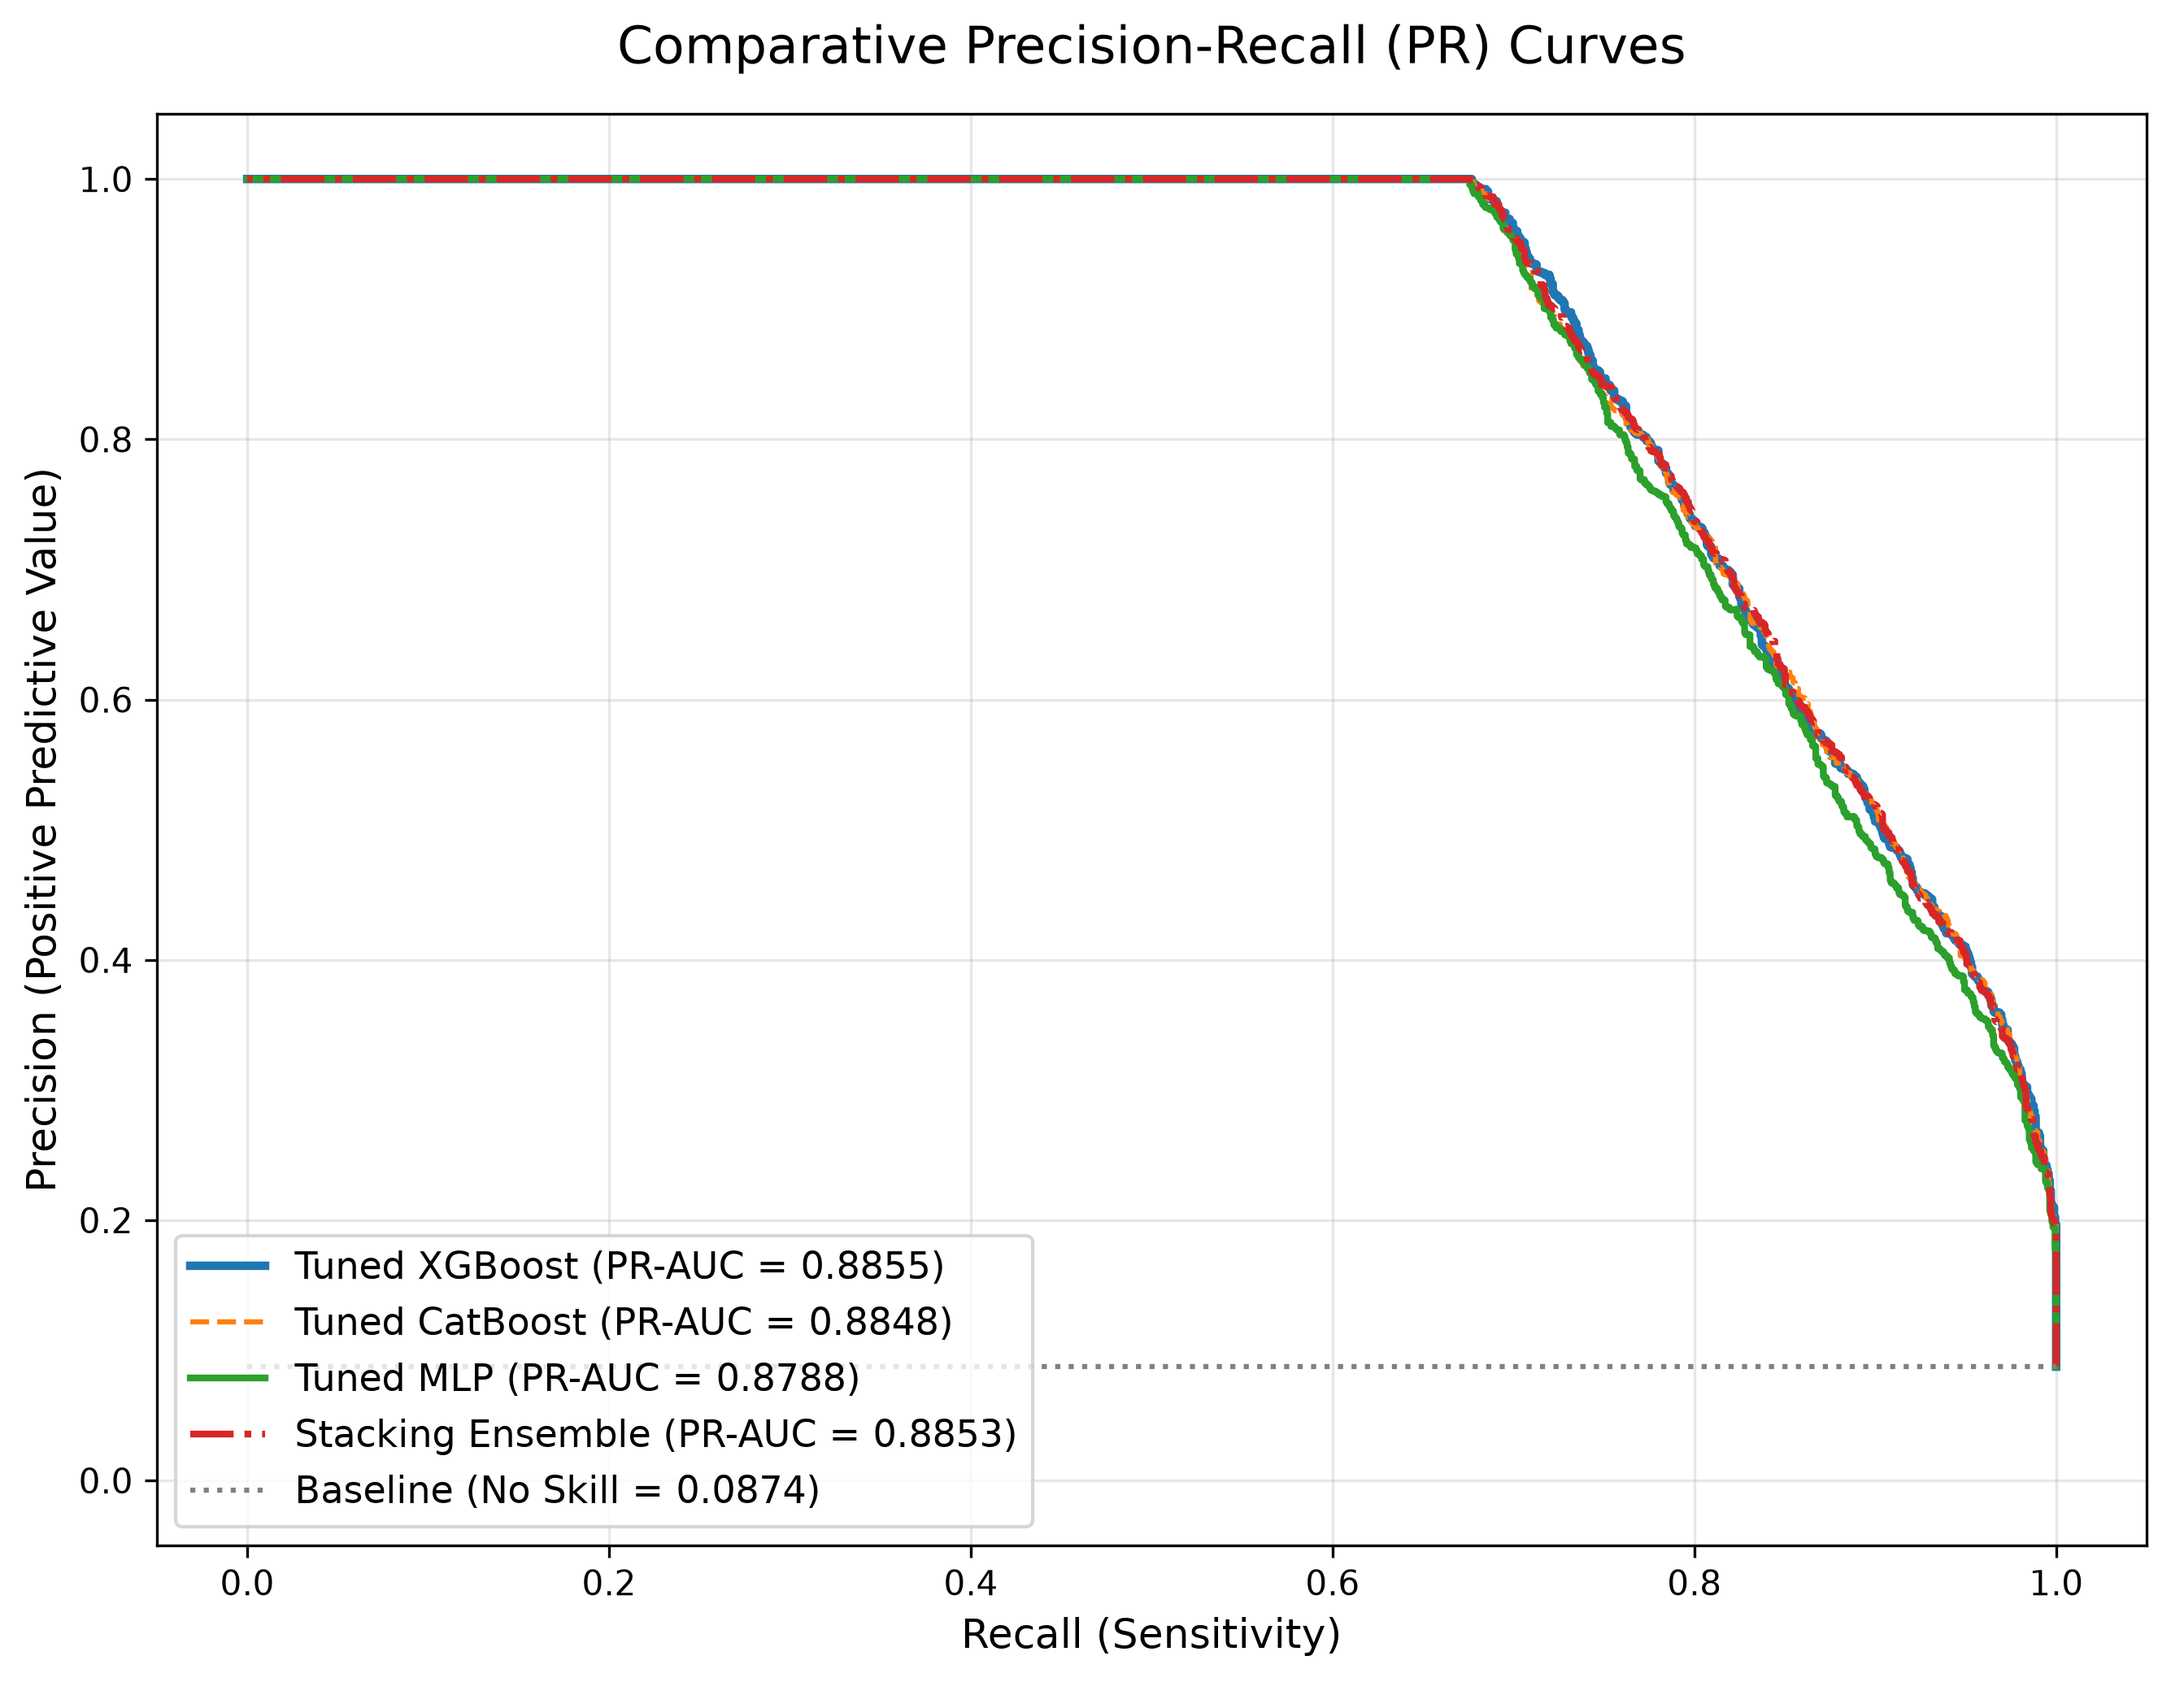
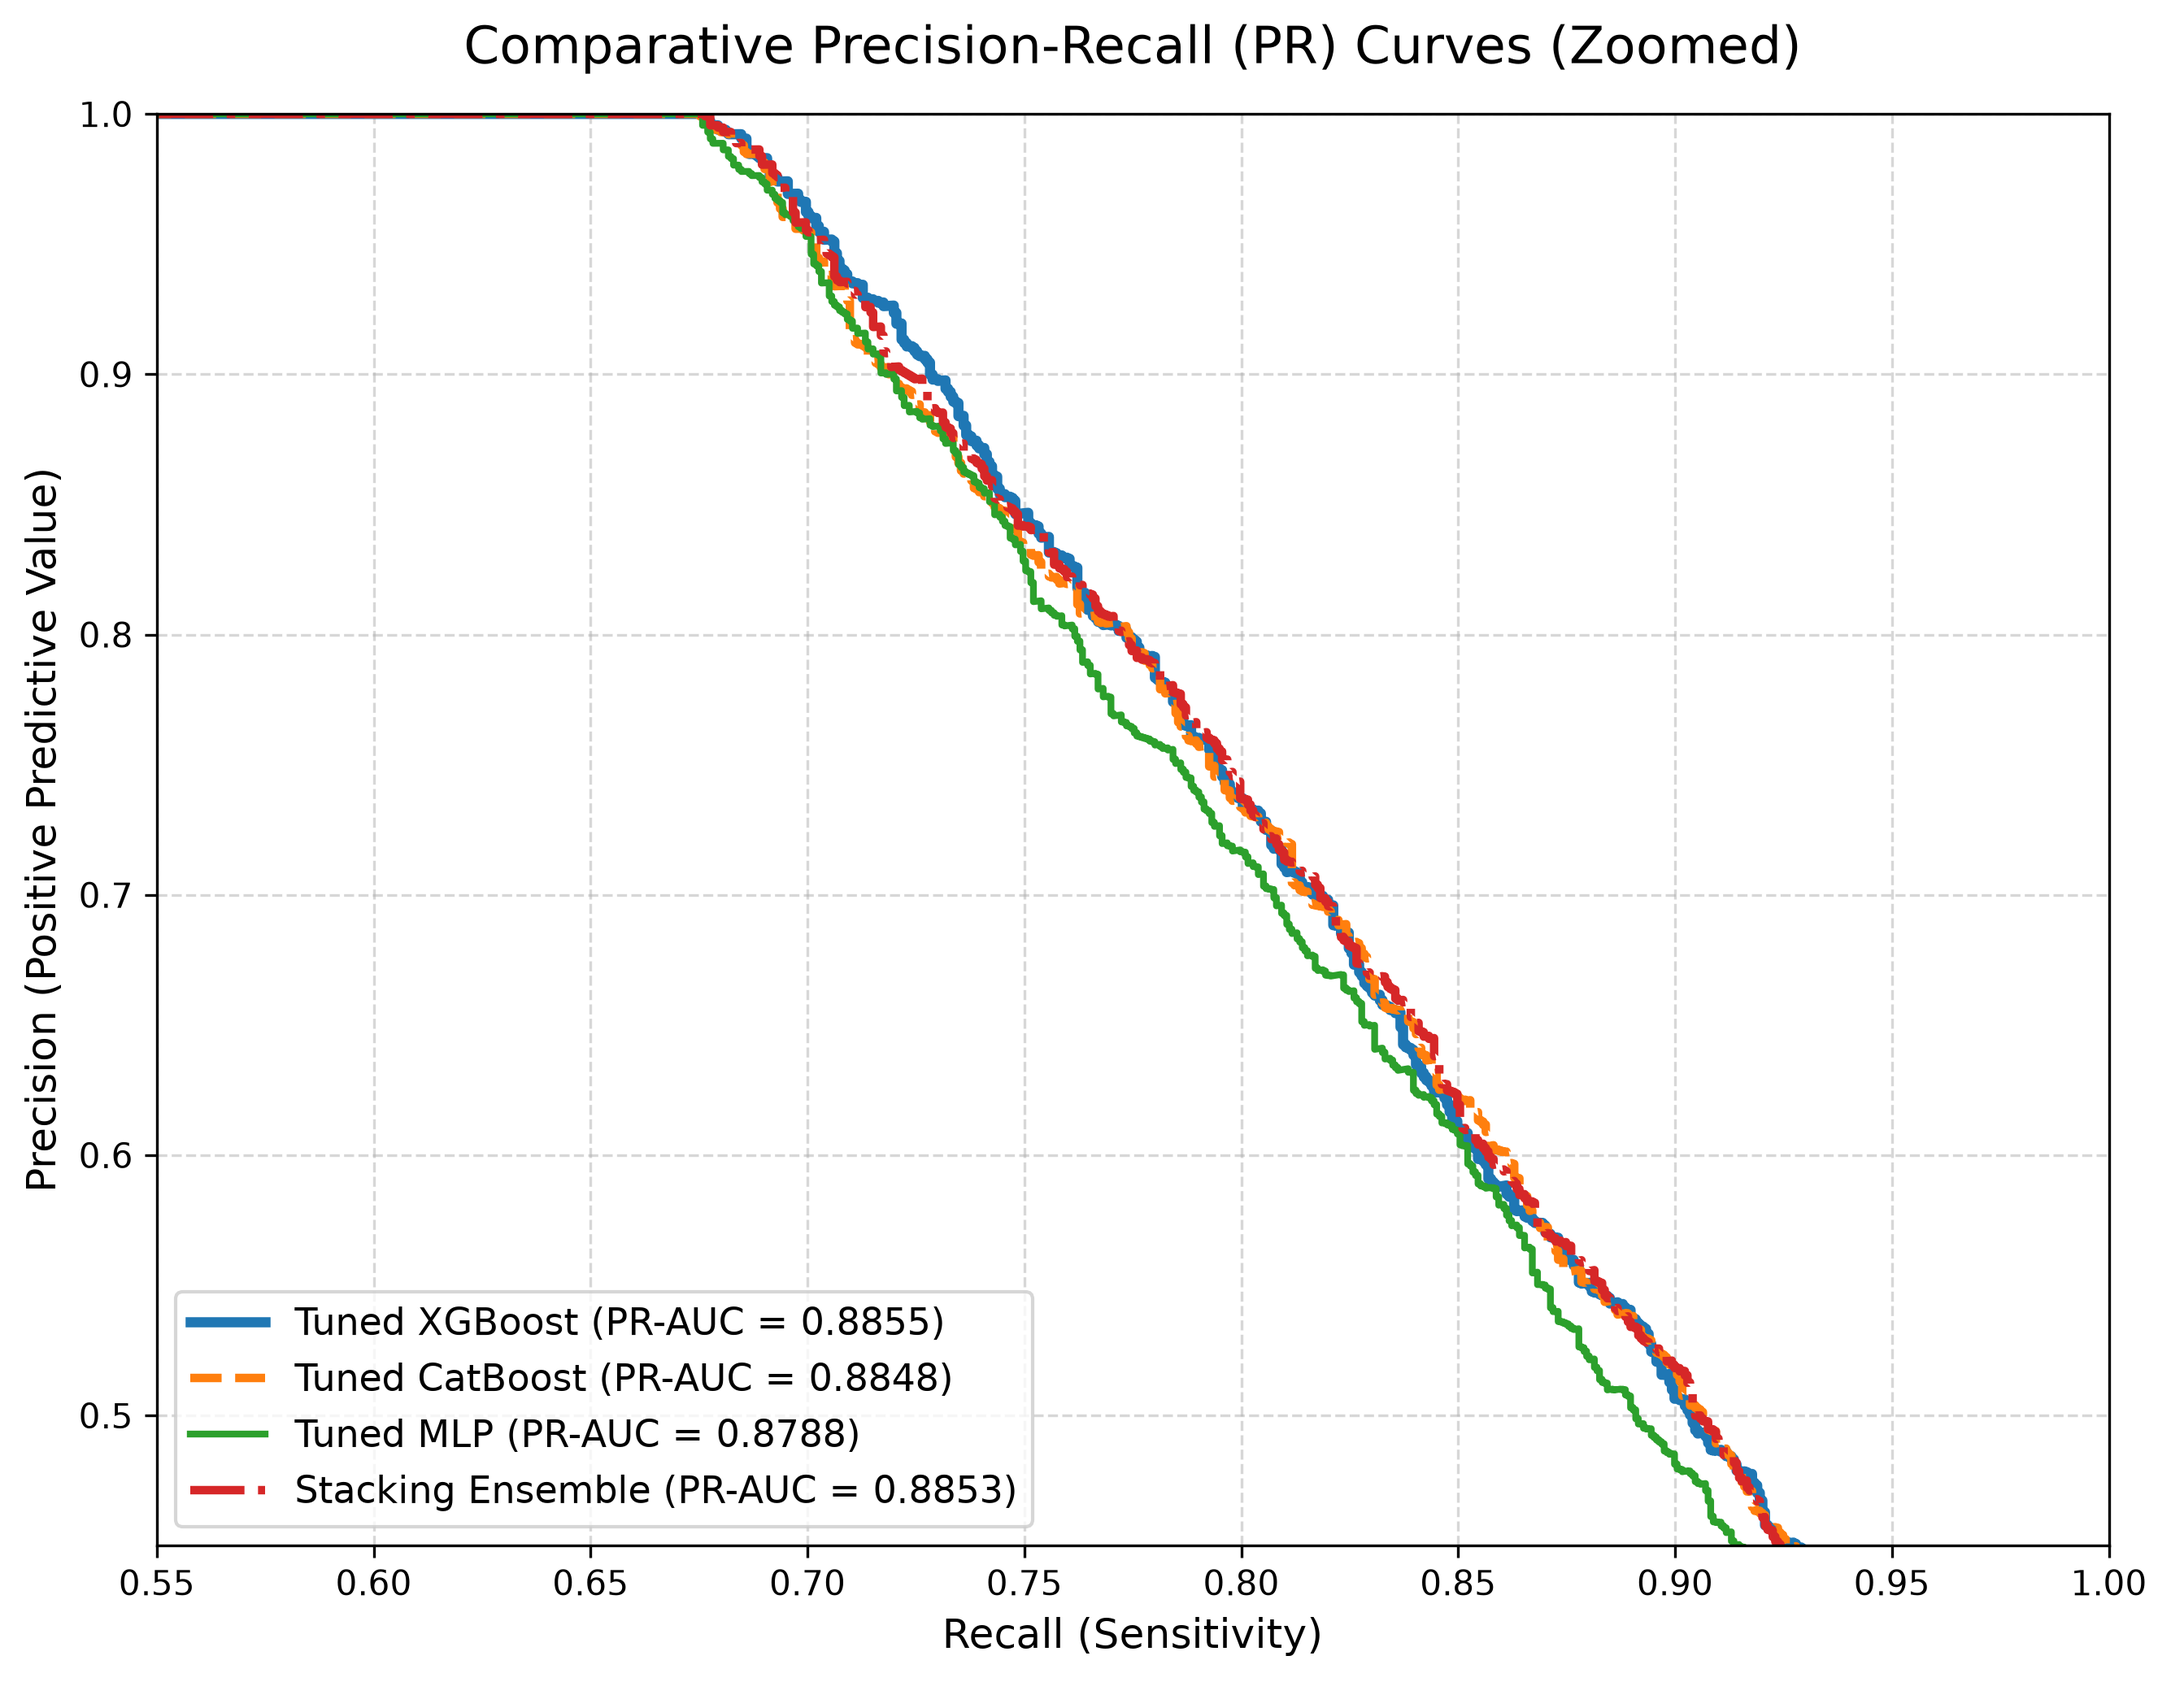
docs: adjust PR curve axes for visual distinction and update figure caption

diff --git a/paper/mainnnn.tex b/paper/mainnnn.tex
@@ -561,7 +561,7 @@ MLP + SMOTE & 0.948783 & 0.688143 & 0.757449 & 0.721135 & 0.968909 & 0.855925 \\
 \begin{figure}[t]
     \centering
     \includegraphics[width=\columnwidth]{pr_curves_comparative.png}
-    \caption{Held-out test Precision-Recall (PR) curves for the evaluated models. The PR curve is preferred over the ROC curve due to the severe target class imbalance.}
+    \caption{Held-out test Precision-Recall (PR) curves for the evaluated models. The plot axes are magnified to the region of interest (Recall $\ge$ 0.55, Precision $\ge$ 0.45) to distinctly visualize the performance divergence between models, as standard axes render the differences imperceptible.}
     \label{fig:pr_curves}
 \end{figure}
 
